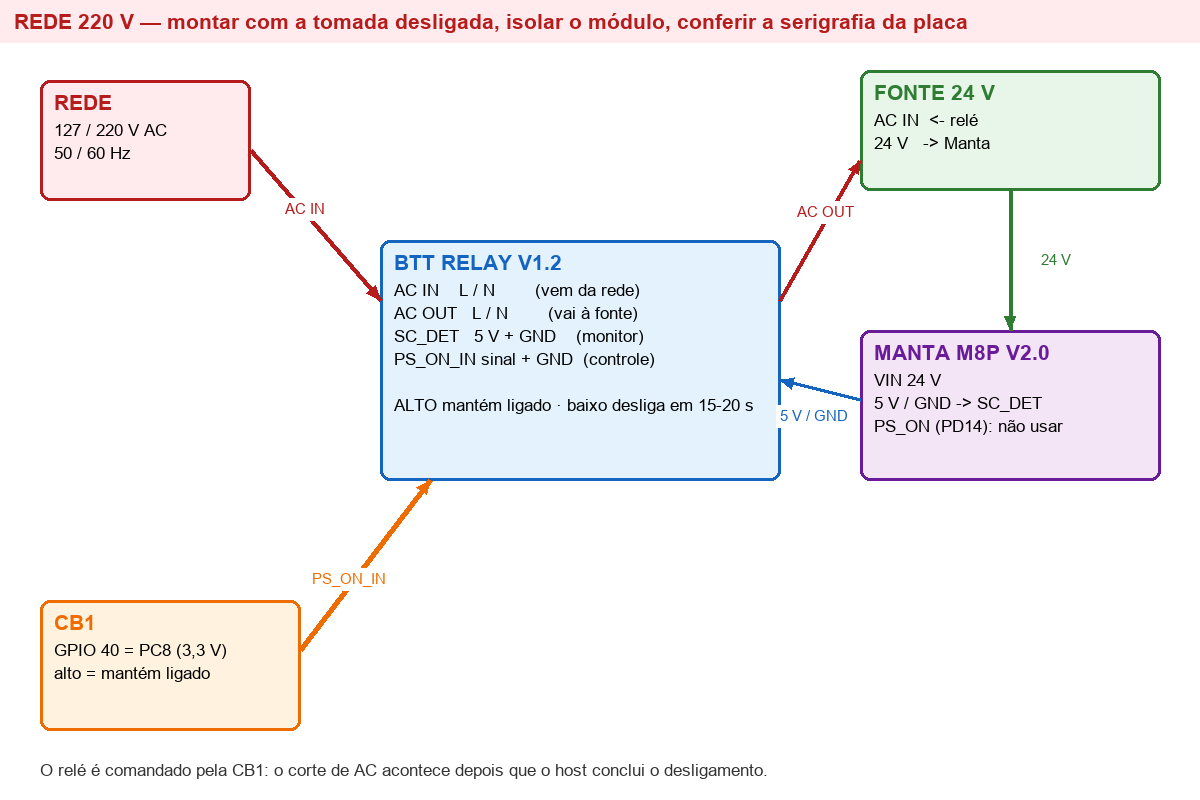
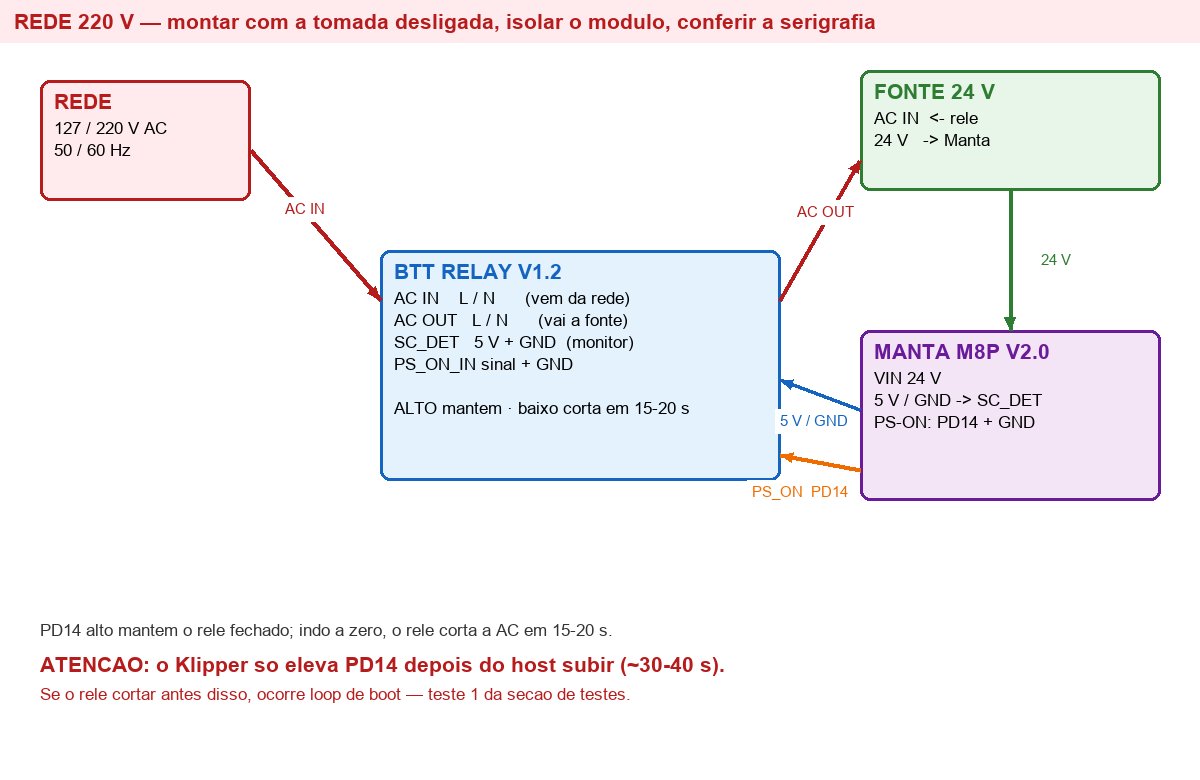
feat(energia): configuracao do PS_ON (PD14) para o rele BTT V1.2
- qidi_xpro/power.cfg: output_pin ps_on_pin (PD14, value 1, shutdown_value 1)
  e macros POWER_OFF / POWER_ON
- POWER_OFF baixa o pino e pede shutdown do host na sequencia: o
  temporizador de 15-20 s do rele e a rede de seguranca
- documentado o risco de loop de boot (Klipper eleva PD14 em 30-40 s,
  rele espera 15-20 s) e o teste que decide isso na pratica
- diagrama refeito para controle pelo PS-ON da Manta

diff --git a/01_Docs/15_Relay_Energia.md b/01_Docs/15_Relay_Energia.md
@@ -1,14 +1,13 @@
 # Relé de Energia — BTT Relay V1.2 + Manta M8P V2.0
 
 **Documento:** 15_Relay_Energia.md
-**Versão:** 1.0.0
+**Versão:** 2.0.0
 **Data:** 2026-10-27
-**Objetivo:** permitir desligar a impressora pelo painel (Fluidd), cortando a rede elétrica depois
-que o host conclui o desligamento.
+**Objetivo:** desligar a impressora pelo painel, cortando a rede elétrica pelo relé.
 
-> **PERIGO — RISCO DE CHOQUE ELÉTRICO E INCÊNDIO.** Este documento descreve intervenção na rede
-> 220 V. Monte com a tomada desligada, isole o módulo, confira a serigrafia da placa e, se não tiver
-> habilitação para trabalho em instalações elétricas, execute a parte de rede com um eletricista.
+> **PERIGO — RISCO DE CHOQUE ELÉTRICO E INCÊNDIO.** Intervenção na rede 220 V. Montar com a tomada
+> desligada, isolar o módulo, conferir a serigrafia da placa. Sem habilitação para trabalho em
+> instalações elétricas, execute a parte de rede com um eletricista.
 
 ---
 
@@ -19,143 +18,132 @@ que o host conclui o desligamento.
 | `AC IN` (L / N) | entrada da rede — 85 a 265 V AC, 50/60 Hz |
 | `AC OUT` (L / N) | saída que alimenta a fonte da impressora |
 | `SC_DET` (5 V + GND) | monitora a linha de 5 V; curto ou perda de 5 V corta a energia |
-| `PS_ON_IN` (sinal + GND) | controle: **nível ALTO mantém ligado**; nível baixo ou ausente desliga em **15–20 s** |
+| `PS_ON_IN` (sinal + GND) | controle: **nível ALTO mantém ligado**; ao cair, desliga em **15–20 s** |
 
-O módulo tem próprio MCU (STC15W201S), aceita lógica de 3,3 V ou 5 V e mantém a alimentação por
-15–20 s após o sinal cair — tempo que permite ao Linux encerrar com segurança.
+MCU próprio (STC15W201S), lógica de 3,3 V ou 5 V, e atraso de 15–20 s que permite ao Linux encerrar.
 
-# 2. Decisão de projeto: quem comanda o relé
+# 2. Decisão: controle pelo `PS_ON` da Manta (PD14)
 
-Duas opções foram avaliadas:
+| Opção | Como funciona |
+|---|---|
+| **A — `PS_ON` da Manta (PD14)** ✅ adotada | o Klipper controla o pino; o relé corta após o sinal cair |
+| B — GPIO da CB1 (PC8, pino 40) | o host mantém a linha alta; ao concluir o `poweroff`, a linha cai |
 
-| Opção | Como funciona | Problema |
-|---|---|---|
-| **A — `PS_ON` da Manta (PD14)** | o firmware corta a energia | o MCU é alimentado pela mesma fonte: ao cortar a AC, a CB1 morre sem desligar o sistema de arquivos → risco de corromper o cartão |
-| **B — GPIO da CB1 (PC8, pino 40)** | o host mantém a linha alta; ao concluir o `poweroff`, a linha cai e o relé corta a AC 15 s depois | exige overlay + serviço na CB1 |
+A opção A tem **duas consequências** que precisam estar claras:
 
-**Adotada: opção B.** É a única que garante corte de energia **depois** do desligamento limpo do
-host. O `PS_ON` da Manta (PD14) permanece desligado do módulo.
+**2.1 O MCU é alimentado pela mesma fonte que o relé corta.** Se o relé cortar primeiro, a CB1 morre
+sem encerrar o sistema de arquivos. Por isso o desligamento é sempre em dois passos, dentro da
+macro: **baixar o pino** (inicia o temporizador de 15–20 s) e **imediatamente pedir o `poweroff` do
+host**. O temporizador é a rede de segurança — se o host travar, o corte acontece de todo modo, com
+risco de corrupção do cartão.
+
+**2.2 Janela de boot.** Ao aplicar rede, o relé fecha e começa a contar 15–20 s. O Klipper só eleva
+`PD14` depois que o host sobe e carrega a configuração — tipicamente **30–40 s** na CB1. Se o relé
+cortar antes disso, o sistema entra em **loop de boot**.
+O firmware publicado pela BTT não tem variante com atraso maior (o repositório traz um único
+`STC15W201S.hex`). O **teste 1** da seção 8 responde se isso ocorre na prática.
 
 # 3. Diagrama
 
-![Ligação do relé à Manta e à CB1](../08_Fotos/Relay_V12_Manta_M8P.png)
+![Ligação do relé à Manta](../08_Fotos/Relay_V12_Manta_M8P.png)
 
 # 4. Ligações, ponto a ponto
 
 | # | Origem | Destino | Observação |
 |---|---|---|---|
-| 1 | Rede — condutor F (ou L, conforme a instalação) | `AC IN` do relé | passar por fusível/disjuntor da impressora |
-| 2 | Rede — neutro | `AC IN` (N) do relé | manter a polaridade |
-| 3 | `AC OUT` do relé — L e N | entrada AC da fonte 24 V | é a fonte da impressora que será comutada |
-| 4 | `SC_DET` 5 V e GND | `5V` e `GND` da Manta | monitor de curto; sem ele, a proteção não atua |
-| 5 | `PS_ON_IN` sinal | **CB1, pino físico 40 (GPIO21 / PC8)** | sinal de 3,3 V |
-| 6 | `PS_ON_IN` GND | GND da CB1/Manta | referência comum obrigatória |
-| 7 | — | `PS_ON` (PD14) da Manta | **deixar desconectado** |
-
-> Confira na serigrafia da sua unidade: os nomes usados aqui são os documentados pela BTT
-> (`AC IN`, `AC OUT`, `SC_DET`, `PS_ON_IN`). Em versões antigas do manual os mesmos conectores
-> aparecem apenas nos desenhos.
+| 1 | Rede — fase | `AC IN` (L) | após fusível/disjuntor |
+| 2 | Rede — neutro | `AC IN` (N) | manter polaridade |
+| 3 | `AC OUT` (L/N) | entrada AC da fonte 24 V | é a fonte que será comutada |
+| 4 | `SC_DET` (5 V + GND) | `5V` e `GND` **da Manta** | monitor de curto |
+| 5 | `PS_ON_IN` sinal | **`PS-ON` da Manta — PD14** | 3,3 V |
+| 6 | `PS_ON_IN` GND | GND da Manta | referência comum |
+| 7 | — | CB1 pino 40 | **não usado** nesta opção |
 
 # 5. Software
 
-## 5.1 CB1 — manter a linha alta
+## 5.1 Arquivo de configuração
 
-A CB1 precisa elevar o `PS_ON_IN` **antes** dos 15 s, senão o relé corta a energia durante o boot.
-Isso é resolvido com:
-
-1. **overlay de device tree** expondo o pino 40 como linha GPIO nomeada (`btt-relay`);
-2. **serviço systemd** que solicita a linha como saída e a mantém em nível alto durante toda a
-   operação. Quando o sistema encerra, o serviço termina, a linha cai e o relé corta a energia
-   após o atraso.
-
-Implementação de referência, já validada para CB1 v2.2 + Manta: [`evgs/power_cb1`](https://github.com/evgs/power_cb1).
-Verificação após instalar:
-
-```bash
-sudo apt install gpiod
-gpioinfo | grep btt
-# esperado: line 72: unnamed "btt-relay" output active-high [used]
-```
-
-## 5.2 Klipper / Moonraker
-
-Nada muda no `printer.cfg`. O desligamento pelo painel já existe:
+Criado em `03_Klipper_Config/qidi_xpro/power.cfg` (espelho da CB1). Incluir no `printer.cfg`:
 
 ```ini
-[gcode_macro SHUTDOWN_HOST]
-description: Desliga a CB1 com segurança
+[include qidi_xpro/power.cfg]
+```
+
+Conteúdo:
+
+```ini
+[output_pin ps_on_pin]
+pin: PD14
+value: 1
+shutdown_value: 1
+
+[gcode_macro POWER_OFF]
+description: Desliga o host e corta a energia pelo relé
 gcode:
+    M118 Desligando - energia sera cortada em 15 a 20 s
+    SET_PIN PIN=ps_on_pin VALUE=0
     {action_call_remote_method("shutdown_machine")}
+
+[gcode_macro POWER_ON]
+description: Rearma o relé (mantém a energia ligada)
+gcode:
+    SET_PIN PIN=ps_on_pin VALUE=1
+    M118 Relé rearmado
 ```
 
-Fluxo completo: **`SHUTDOWN_HOST`** → Moonraker encerra o sistema (`systemd_dbus`, `shutdown_action: poweroff`)
-→ o serviço do relé termina → `PS_ON_IN` cai → **15–20 s depois a AC é cortada**.
+`shutdown_value: 1` é deliberado: um erro de G-code ou um shutdown do Klipper **não** deve derrubar a
+energia da máquina. O corte só acontece pela macro `POWER_OFF`.
 
-O `poweroff` configurado no `moonraker.conf` é pré-requisito:
+## 5.2 Fluxo de desligamento
 
-```ini
-[machine]
-provider: systemd_dbus
-shutdown_action: poweroff
-```
+`POWER_OFF` → `SET_PIN ps_on_pin VALUE=0` (relé inicia contagem) → `shutdown_machine` (host encerra)
+→ **15–20 s depois a AC é cortada**.
 
-# 6. Como ligar a impressora
+# 6. Como ligar
 
-A placa **não tem botão de ligar**. O manual só descreve `P5.4` como pino de reset/gravação de
-firmware do MCU. A sequência real de partida é:
+A placa não tem botão de partida. Ao aplicar rede (chave geral ou pulsador), o relé fecha por padrão
+e alimenta a fonte; a CB1 inicia o boot; **o Klipper precisa elevar PD14 antes do fim da janela**.
 
-1. aplicar rede ao módulo → o relé **fecha por padrão** e alimenta a fonte;
-2. a CB1 inicia o boot e o overlay de device tree eleva `PS_ON_IN` (~2–3 s, via u-boot);
-3. com o sinal alto, o relé **fica retido**;
-4. se o sinal não subir em **15–20 s**, o relé abre e a impressora desliga sozinha.
+| Opção de ligar | Como |
+|---|---|
+| Ciclar a chave geral | desligar/ligar; funciona se a janela de boot for respeitada |
+| Pulsador NA em série com a fase | um toque aplica rede — comportamento tipo ATX |
+| Tomada inteligente | liga remotamente |
 
-> **Consequência prática:** após desligar pelo painel, a **chave geral continua ligada** e o relé
-> está aberto. Para religar é preciso **ciclar a rede** (chave geral desligar/ligar) ou instalar um
-> botão.
+# 7. Cuidados
 
-## 6.1 Opções de botão de ligar
+1. **Isolamento**: 220 V expostos; caixa fechada.
+2. **Chave geral continua sendo o corte definitivo.**
+3. `SC_DET` no 5 V da Manta, nunca no 24 V.
+4. **Não ligar o pino 40 da CB1** nesta opção (evita dois drivers no mesmo sinal).
+5. Toda troca de estado do relé leva 15–20 s — não é instantânea.
 
-| Opção | Como funciona | Cuidado |
-|---|---|---|
-| **Pulsador NA de rede em série com a fase** | um toque aplica AC, a CB1 arranca e retém — comportamento tipo ATX | componente e fiação isolados para 220 V, em caixa fechada |
-| **Tomada inteligente / interruptor de parede** | liga remotamente, sem tocar na máquina | suportar a corrente de pico da fonte |
-| **Jumper de `PS_ON_IN` ao 3,3 V** | mantém o relé fechado sem a CB1, apenas para manutenção | **nunca** em uso normal: anula a proteção |
-
-## 6.2 O que faz o sistema entrar em loop de boot
-
-O sinal precisa subir **antes dos 15–20 s**. Se for elevado por um **serviço systemd**, ele só atua
-depois do Linux subir (~20–30 s na CB1) e o relé corta no meio do boot. Por isso o overlay precisa
-ser um **hog de device tree** com `output-high`, aplicado pelo u-boot — não um serviço tardio.
-
-# 7. Cuidados específicos desta placa
-
-1. **O relé alimenta a carga por padrão** quando a rede é aplicada. Ligar a chave geral energiza a
-   impressora e a CB1 inicia o boot; se o sinal não subir em 15–20 s, o módulo corta tudo e o ciclo
-   recomeça. **Meça o tempo de boot antes de deixar a máquina sozinha.**
-2. **Chave geral continua sendo o corte definitivo.** O relé não substitui a chave nem o fusível.
-3. **Isolamento**: o módulo trabalha com 220 V expostos. Use caixa isolada.
-4. **Não ligue o `PS_ON` da Manta no relé** — é a opção A, descartada.
-5. O `SC_DET` deve ser ligado à linha de 5 V **da própria Manta**, não ao 24 V.
-6. **Host morto = impressora desligada em 15–20 s.** É uma boa proteção, mas impede diagnóstico com
-   a máquina energizada; para manutenção use o jumper do item 6.1 com consciência do risco.
-
-# 8. Plano de teste (antes de confiar no painel)
+# 8. Plano de teste
 
 | # | Teste | Critério |
 |---|---|---|
-| 1 | Continuidade e isolação, tudo desligado | nenhum curto entre L, N e terra |
-| 2 | Ligar com a chave geral, sem a CB1 | relé liga a fonte por padrão e corta após 15–20 s |
-| 3 | Medir `PS_ON_IN` com a CB1 ligada | 3,3 V (alto) |
-| 4 | Cronometrar do AC até o sinal alto | **abaixo de 15 s** |
-| 5 | `SHUTDOWN_HOST` pelo Fluidd | CB1 desliga; AC cai 15–20 s depois |
-| 6 | Religar ciclando a chave geral | sistema sobe sem intervenção |
-| 7 | Repetir 5 e 6 três vezes | comportamento consistente |
-| 8 | Simular `SC_DET` (desconectar o 5 V) | relé corta a energia |
+| 1 | **Ligar sem o Klipper** (host desligado) e cronometrar | o relé corta em 15–20 s? **Isso decide se há loop de boot** |
+| 2 | Continuidade e isolação, tudo desligado | nenhum curto entre L, N e terra |
+| 3 | Com o sistema ligado: `SET_PIN PIN=ps_on_pin VALUE=0` | relé corta após 15–20 s |
+| 4 | `POWER_OFF` pelo painel | host encerra e a AC cai em 15–20 s |
+| 5 | Religar pela chave geral | sistema sobe sem intervenção |
+| 6 | Repetir 4 e 5 três vezes | comportamento consistente |
+| 7 | Simular `SC_DET` (desconectar 5 V) | relé corta a energia |
 
-# 9. Pendências
+# 9. Se o teste 1 reprovar (loop de boot)
 
-- [ ] Confirmar na serigrafia os nomes dos conectores da unidade recebida
-- [ ] Instalar o overlay (hog) na CB1 e medir o tempo até `PS_ON_IN` ficar alto
-- [ ] Decidir a forma de ligar: ciclar a chave, pulsador ou tomada inteligente
-- [ ] Executar o plano de teste da seção 8 e registrar os tempos
-- [ ] Atualizar o `README` (seção de hardware) e o `00_Estado_Atual` após validação
+Alternativas, em ordem de preferência:
+
+1. **Botão de retenção** em `PS_ON_IN` (pulsador para +5 V) mantido durante o boot da CB1.
+2. **Voltar para a opção B**: overlay de device tree na CB1 elevando o pino em ~2–3 s, com o
+   `PS_ON` da Manta em paralelo ou desligado.
+3. Regravar o MCU do relé com atraso maior (o repositório da BTT tem os pinos de gravação, mas não
+   publica firmware alternativo).
+
+# 10. Pendências
+
+- [ ] Confirmar na serigrafia os nomes dos conectores da unidade
+- [ ] Incluir `power.cfg` no `printer.cfg` e reiniciar
+- [ ] Executar o teste 1 (comportamento sem sinal) e registrar o tempo
+- [ ] Executar os demais testes e registrar
+- [ ] Sincronizar `03_Klipper_Config/` + `MANIFEST`
